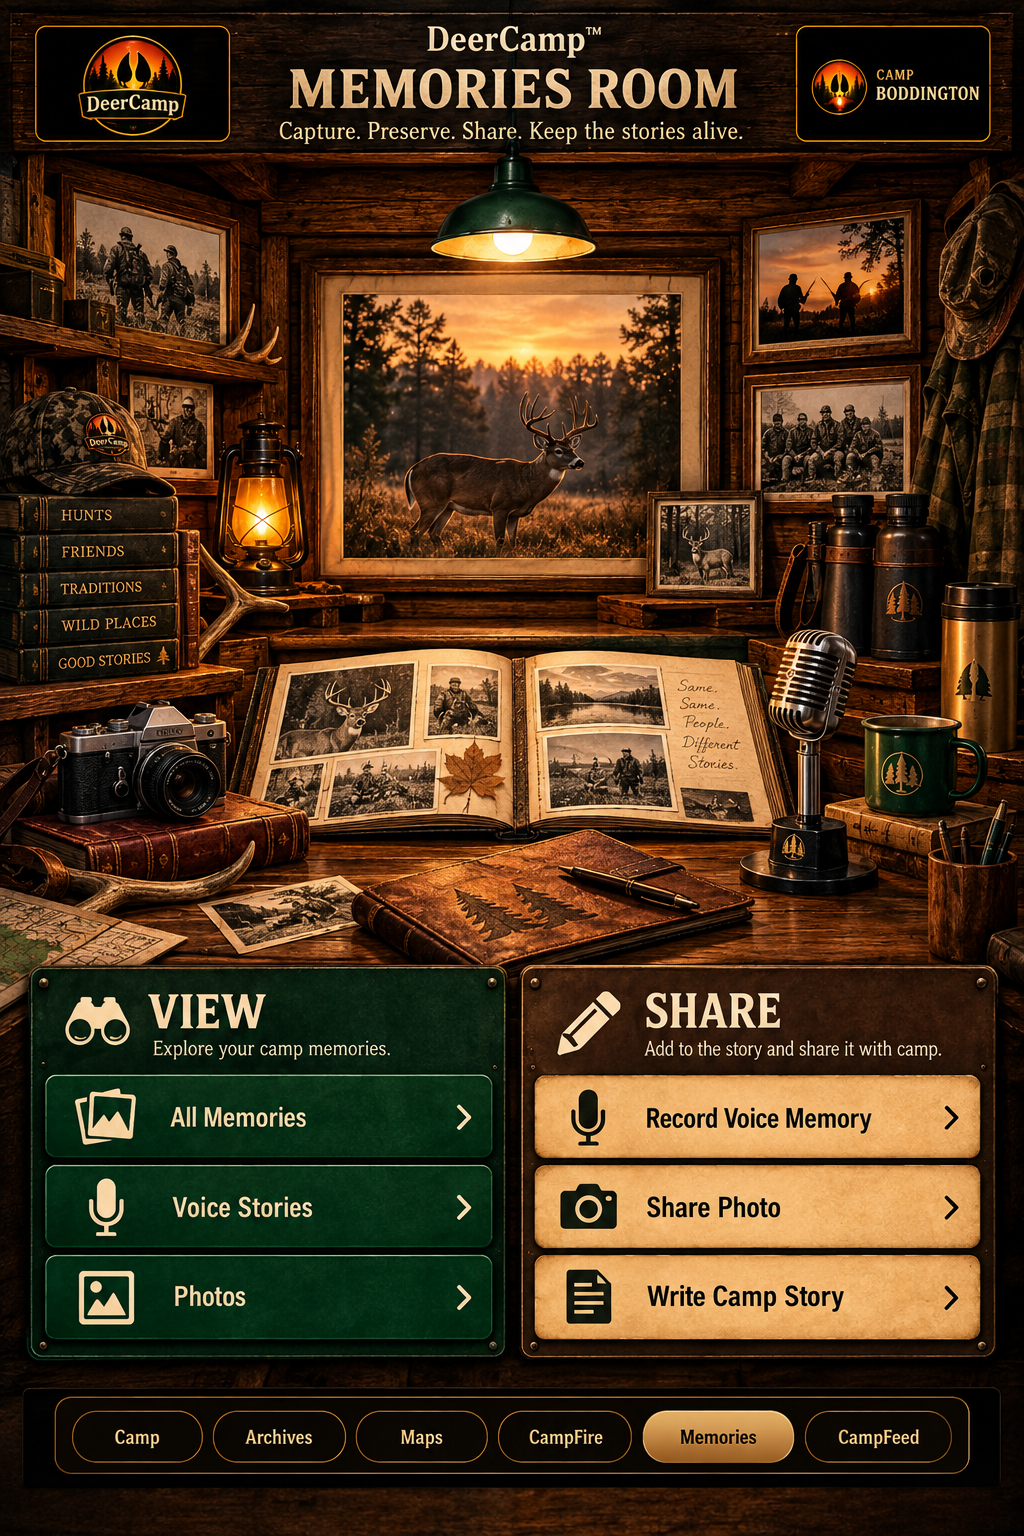
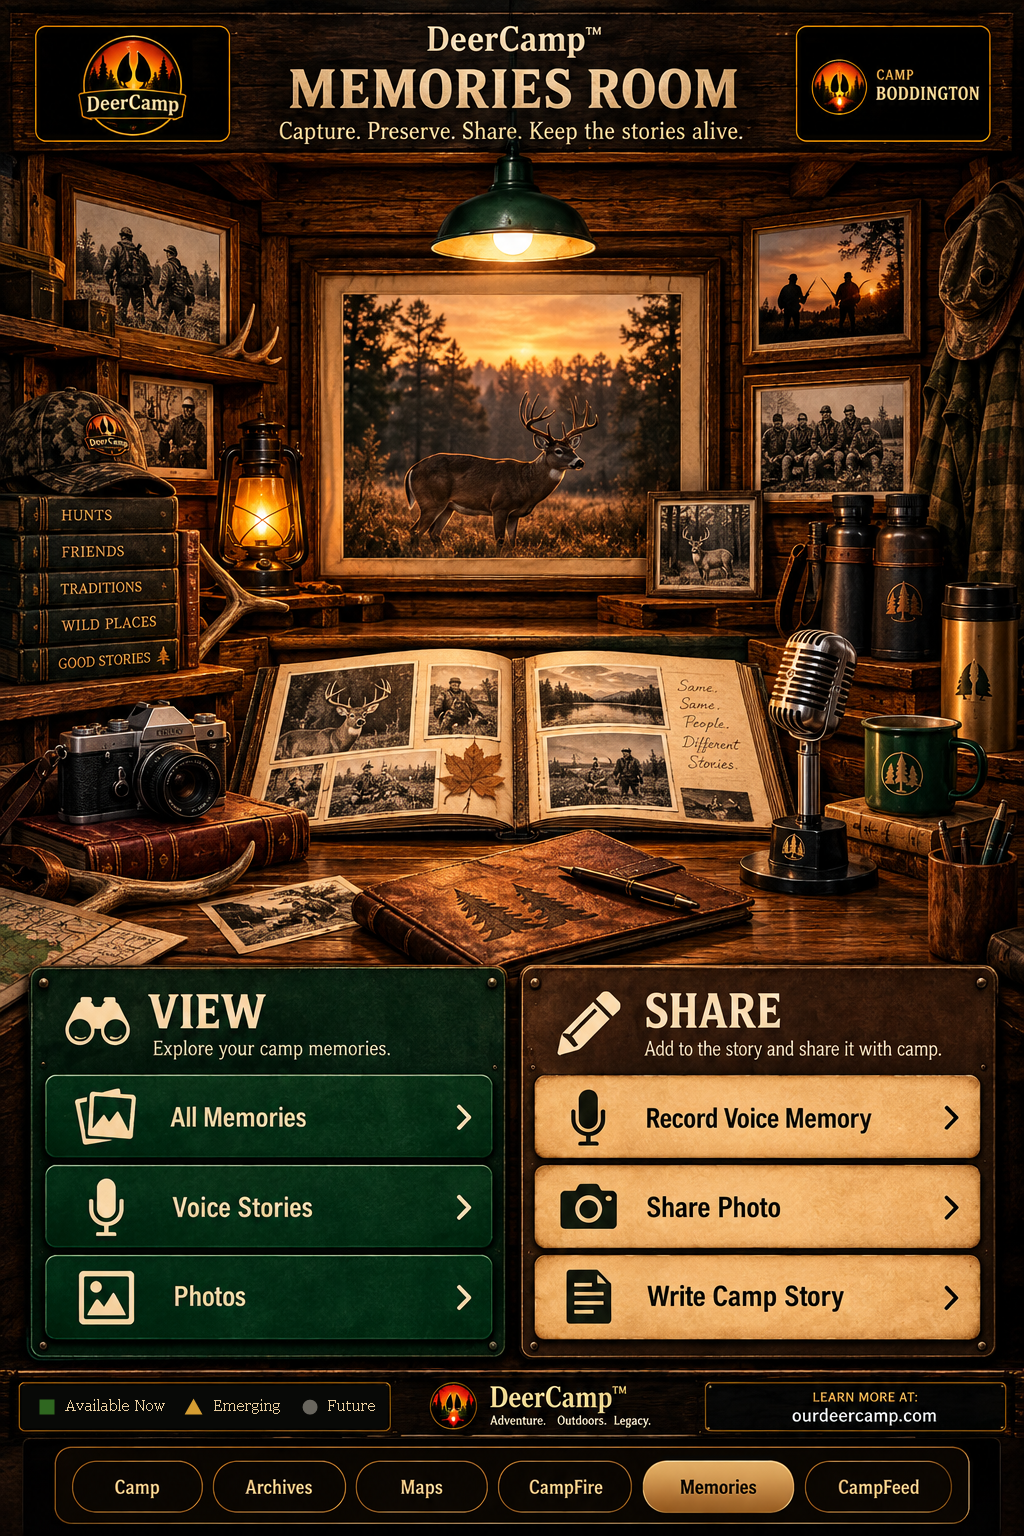
Calibrate Memories Room artwork and navigation hotspots

Changed region(s): [[0.0, 0.875, 1.0, 1.0]]

diff --git a/v2/rooms/memory/room-config.js b/v2/rooms/memory/room-config.js
@@ -102,54 +102,54 @@
       label: "Back to Camp",
       route: "camp",
       x: 7.3,
-      y: 91.5,
+      y: 95.3,
       width: 12.8,
-      height: 4.0
+      height: 3.5
     },
     {
       id: "nav-archives",
       label: "Archives Room",
       route: "archives",
       x: 20.6,
-      y: 91.5,
+      y: 95.3,
       width: 13.1,
-      height: 4.0
+      height: 3.5
     },
     {
       id: "nav-maps",
       label: "Maps Room",
       route: "maps",
       x: 34.8,
-      y: 91.5,
+      y: 95.3,
       width: 13.0,
-      height: 4.0
+      height: 3.5
     },
     {
       id: "nav-campfire",
       label: "CampFire Room",
       route: "campfire",
       x: 48.6,
-      y: 91.5,
+      y: 95.3,
       width: 13.1,
-      height: 4.0
+      height: 3.5
     },
     {
       id: "nav-memory",
       label: "Memories Room",
       route: "memory",
       x: 62.7,
-      y: 91.5,
+      y: 95.3,
       width: 14.9,
-      height: 4.0
+      height: 3.5
     },
     {
       id: "nav-campfeed",
       label: "CampFeed Room",
       route: "campfeed",
       x: 78.7,
-      y: 91.5,
+      y: 95.3,
       width: 14.2,
-      height: 4.0
+      height: 3.5
     }
   ]
 };

diff --git a/v2/rooms/memory/index.html b/v2/rooms/memory/index.html
@@ -79,6 +79,7 @@
       display:block;
       width:100%;
       height:auto;
+      aspect-ratio:auto;
       max-width:none;
       max-height:none;
       overflow:visible;
